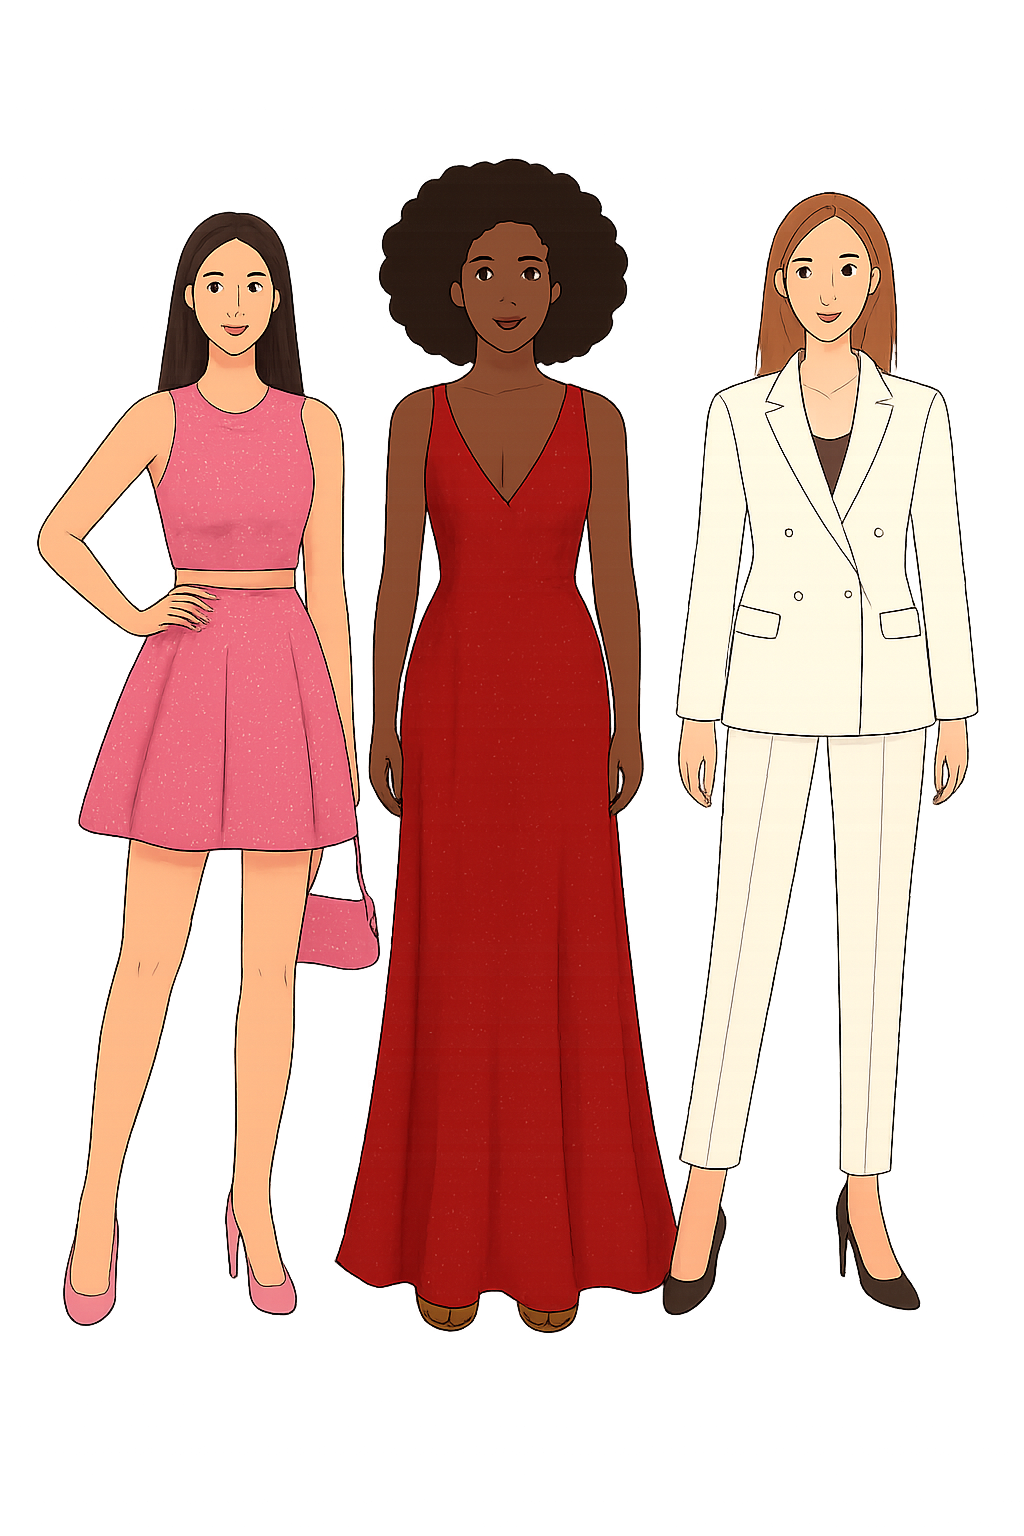
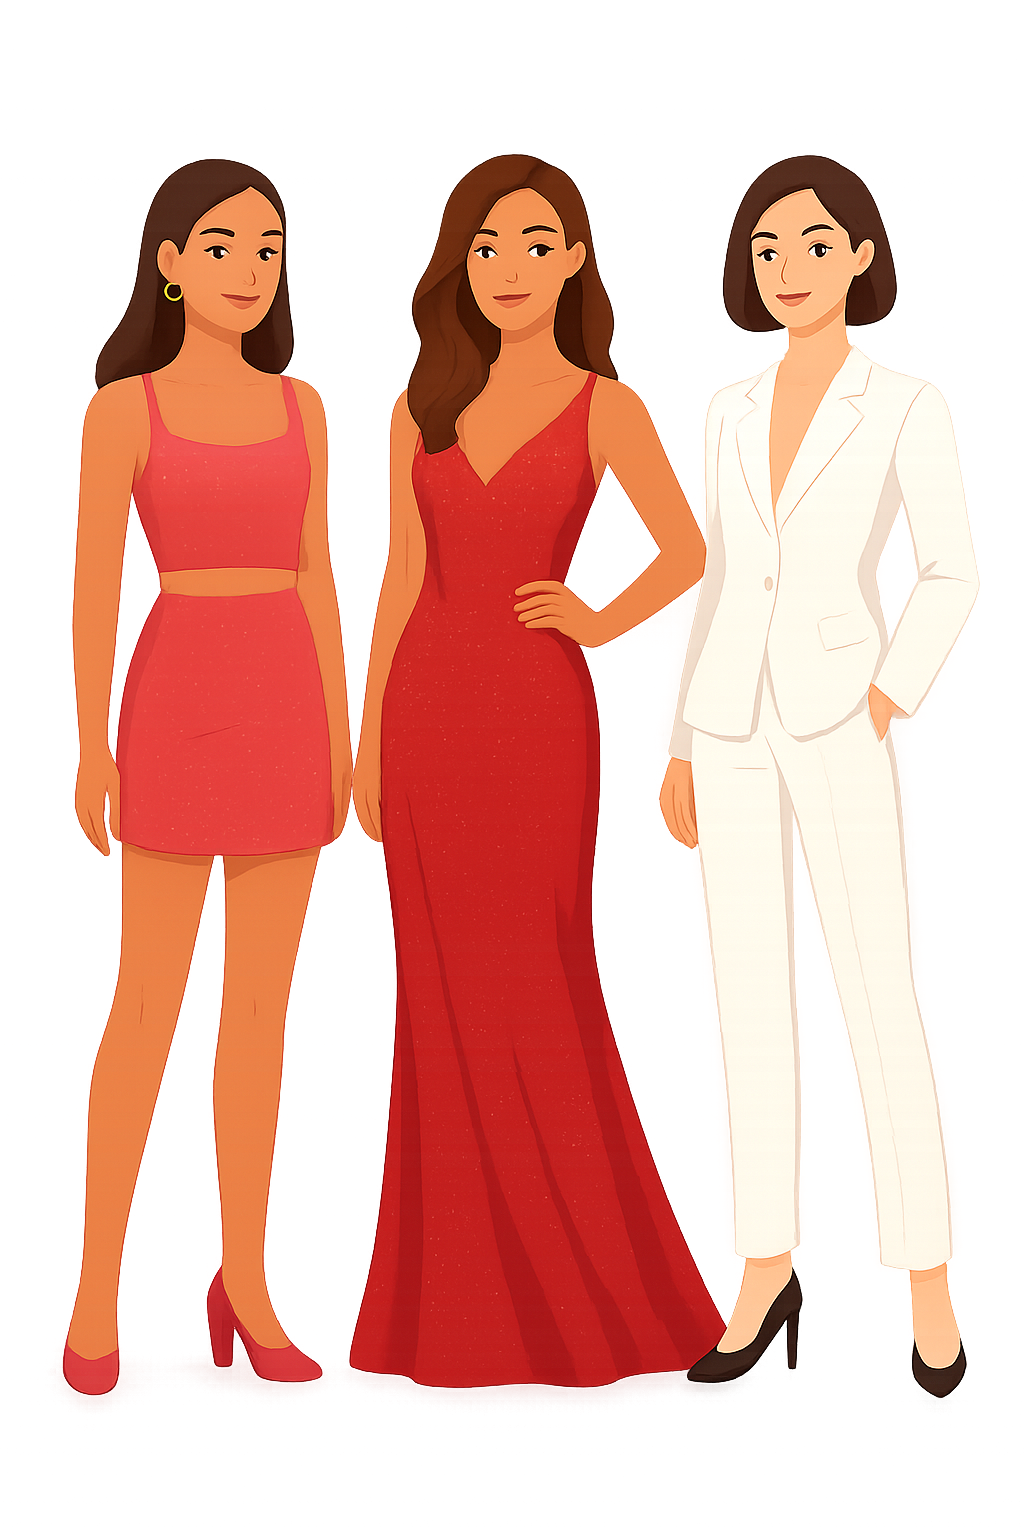
Added Home screen & changed model image for splash screen

diff --git a/frontend/app/index.tsx b/frontend/app/index.tsx
@@ -1,21 +1,248 @@
-import { View, Text, StyleSheet } from "react-native";
+import React, { useState } from 'react';
+import {
+  StyleSheet,
+  View,
+  Text,
+  TextInput,
+  TouchableOpacity,
+  ImageBackground,
+  Image,
+  KeyboardAvoidingView,
+  Platform,
+  TouchableWithoutFeedback,
+  Keyboard,
+  ScrollView
+} from 'react-native';
+import { LinearGradient } from 'expo-linear-gradient';
+
+import { FontAwesome5, MaterialCommunityIcons } from '@expo/vector-icons';
+
+const profilePic = require("../assets/profile_pic.png"); 
+const splashBg = require("../assets/splash_bg.png");  
 
 export default function HomeScreen() {
+  const [inputText, setInputText] = useState('');
+  const userName = 'Prism'; 
+
+  const handleUploadNewOutfit = () => {
+    console.log('Upload New Outfit button pressed!');
+  };
+
+  const handleMyCloset = () => {
+    console.log('My Closet button pressed!');
+  };
+
+  const handleProfilePress = () => {
+    console.log('Profile picture pressed!');
+  };
+
+  const handleAskAI = () => {
+    console.log('Asking AI:', inputText);
+    setInputText('');
+  };
+
   return (
-    <View style={styles.container}>
-      <Text style={styles.text}>Welcome to Style Sense AI</Text>
-    </View>
+    <ImageBackground source={splashBg} style={styles.background}>
+      {/* Semi-transparent overlay */}
+      <LinearGradient
+        colors={['rgba(255,255,255,0.15)', 'rgba(255,255,255,0.05)']}
+        style={StyleSheet.absoluteFillObject}
+      />
+
+      <KeyboardAvoidingView
+        style={styles.keyboardAvoidingContainer}
+        behavior={Platform.OS === 'ios' ? 'padding' : 'height'}
+      >
+        <TouchableWithoutFeedback onPress={Keyboard.dismiss}>
+          <View style={styles.scrollContentContainer}>
+            {/* Profile Picture */}
+            <View style={styles.topRightProfile}>
+              <TouchableOpacity onPress={handleProfilePress} style={styles.profileContainer}>
+                <View style={styles.profilePicBorder}>
+                  <Image source={profilePic} style={styles.profilePic} />
+                </View>
+              </TouchableOpacity>
+            </View>
+
+            {/* Main Content Box */}
+            <View style={styles.contentBox}>
+              <Text style={styles.greetingText}>
+                Hey {userName}, ask me anything about your style! ✨
+              </Text>
+
+              {/* AI Input Field */}
+              <View style={styles.aiInputWrapper}>
+                <TextInput
+                  style={styles.aiInputField}
+                  placeholder="Looking for inspiration? Try asking me.."
+                  placeholderTextColor="#B0B0B0"
+                  value={inputText}
+                  onChangeText={setInputText}
+                  onSubmitEditing={handleAskAI}
+                  multiline={true}
+                  numberOfLines={4}
+                  textAlignVertical="top"
+                />
+              </View>
+
+              {/* Buttons Row */}
+              <View style={styles.buttonsRow}>
+                {/* Upload New Outfit Button */}
+                <TouchableOpacity
+                  style={styles.uploadButton}
+                  onPress={handleUploadNewOutfit}
+                >
+                  <FontAwesome5 name="camera" size={20} color="#FFF" style={styles.iconStyle} />
+                  <Text style={[styles.buttonText, { color: '#FFF' }]}>Upload Outfit</Text>
+                </TouchableOpacity>
+
+                {/* My Closet Button */}
+                <TouchableOpacity
+                  style={styles.myClosetButton}
+                  onPress={handleMyCloset}
+                >
+                  <MaterialCommunityIcons name="hanger" size={22} color="#e68998ff" style={styles.iconStyle} />
+                  <Text style={styles.buttonText}>My Closet</Text>
+                </TouchableOpacity>
+              </View>
+            </View>
+
+            <Text style={styles.samsungPrismText}>SAMSUNG PRISM</Text>
+          </View>
+        </TouchableWithoutFeedback>
+      </KeyboardAvoidingView>
+    </ImageBackground>
   );
 }
 
 const styles = StyleSheet.create({
-  container: {
+  background: {
     flex: 1,
-    justifyContent: "center",
-    alignItems: "center",
+    resizeMode: 'cover',
+    justifyContent: 'center',
+    alignItems: 'center',
   },
-  text: {
-    fontSize: 22,
-    fontWeight: "600",
+  keyboardAvoidingContainer: {
+    flex: 1,
+    width: '100%',
+  },
+  scrollContentContainer: {
+    flexGrow: 1,
+    justifyContent: 'center',
+    alignItems: 'center',
+    paddingVertical: 40,
+  },
+  topRightProfile: {
+    position: 'absolute',
+    top: 70, 
+    right: 20,
+    alignItems: 'center',
+  },
+  profileContainer: {
+    alignItems: 'center',
+  },
+  profilePicBorder: {
+    width: 80,
+    height: 80,
+    borderRadius: 40,
+    borderWidth: 1,
+    borderColor: '#e68998ff',
+    justifyContent: 'center',
+    alignItems: 'center',
+    backgroundColor: '#FFF',
+  },
+  profilePic: {
+    width: 70,
+    height: 70,
+    borderRadius: 35,
+    resizeMode: 'cover',
+  },
+  contentBox: {
+    backgroundColor: 'rgba(255, 255, 255, 0.95)',
+    borderRadius: 25,
+    padding: 25,
+    width: '90%',
+    maxWidth: 400, 
+    alignItems: 'center',
+    shadowColor: '#000',
+    shadowOffset: { width: 0, height: 4 },
+    shadowOpacity: 0.1,
+    shadowRadius: 8,
+    elevation: 5,
+    marginBottom: 40,
+    marginTop: 150, // extra push down
+  },
+  greetingText: {
+    fontSize: 18,
+    fontWeight: '600',
+    color: '#333',
+    marginBottom: 20,
+    textAlign: 'center',
+  },
+  aiInputWrapper: {
+    backgroundColor: '#f0f0f0ff',
+    borderRadius: 15,
+    paddingHorizontal: 15,
+    paddingVertical: 10,
+    marginBottom: 25,
+    width: '100%',
+    minHeight: 100,
+  },
+  aiInputField: {
+    flex: 1,
+    minHeight: 80,
+    fontSize: 16,
+    color: '#333',
+    textAlignVertical: 'top',
+  },
+  buttonsRow: {
+    flexDirection: 'row',
+    justifyContent: 'space-between',
+    width: '100%',
+    gap: 10,
+  },
+  uploadButton: {
+    flexDirection: 'row',
+    alignItems: 'center',
+    backgroundColor: '#e68998ff', 
+    borderRadius: 20,
+    paddingVertical: 12,
+    paddingHorizontal: 15,
+    flex: 1,
+    justifyContent: 'center',
+    shadowColor: '#FF91A4',
+    shadowOffset: { width: 0, height: 2 },
+    shadowOpacity: 0.25,
+    shadowRadius: 5,
+    elevation: 4,
+  },
+  myClosetButton: {
+    flexDirection: 'row',
+    alignItems: 'center',
+    backgroundColor: '#FFF0F5',
+    borderRadius: 20,
+    paddingVertical: 12,
+    paddingHorizontal: 15,
+    flex: 1,
+    justifyContent: 'center',
+    borderWidth: 1,
+    borderColor: '#eeb3b3ff',
+  },
+  iconStyle: { 
+    marginRight: 6,
+  },
+  buttonText: {
+    fontSize: 14,
+    fontWeight: 'bold',
+    color: '#333', 
+  },
+  samsungPrismText: {
+    position: 'absolute', 
+    bottom: 20,
+    marginBottom:10,
+    fontSize: 18.5,
+    color: '#ffffff',
+    letterSpacing: 1,
   },
 });
+
